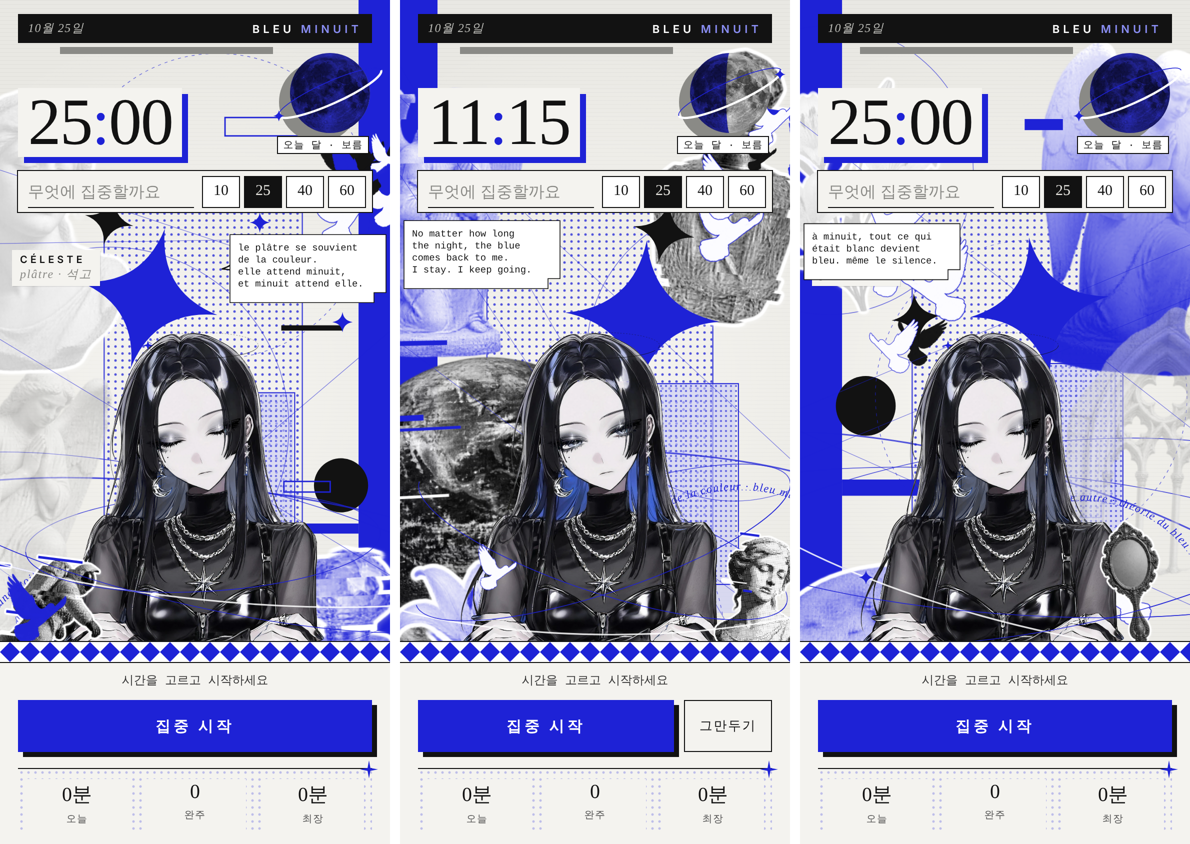
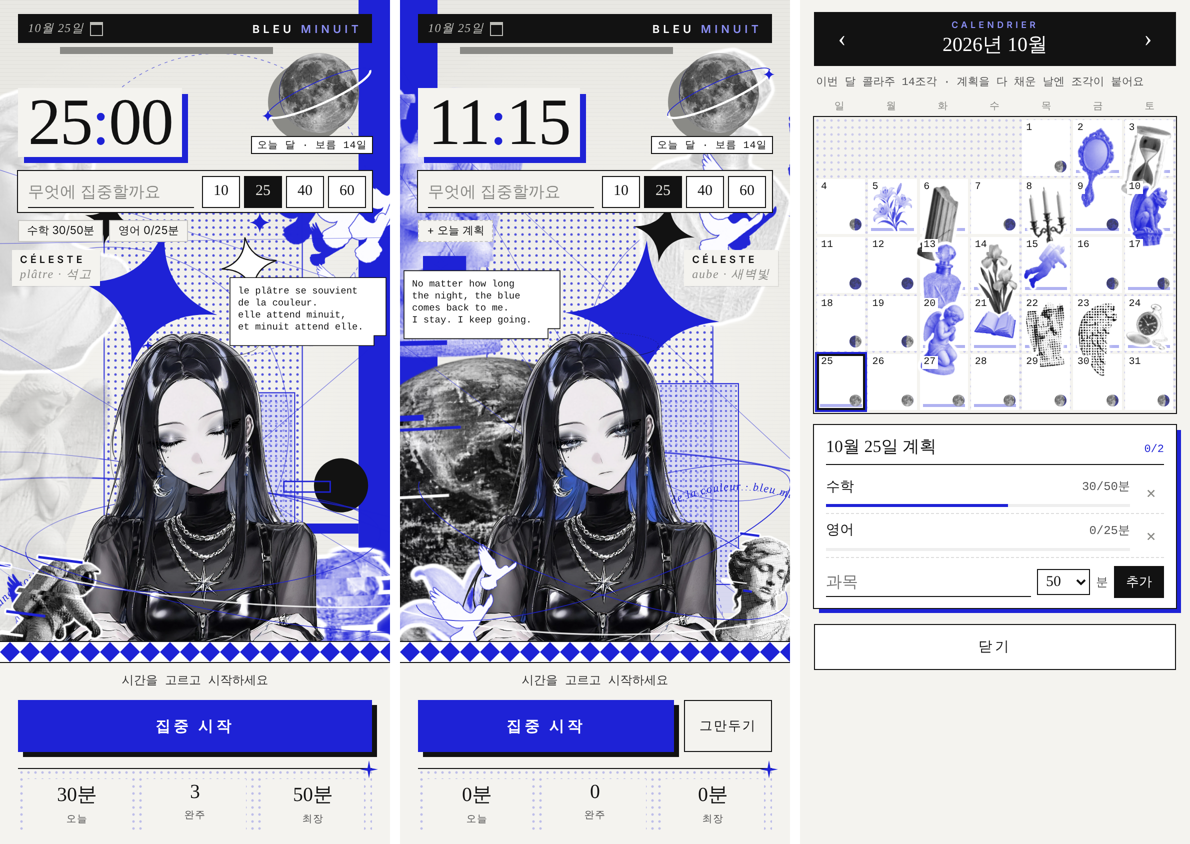
앱 시안: 실제 달 위상, 달 뒤 콜라주 비우기, 달력+공부 계획(다 채운 날에 콜라주 조각)
Claude-Session: https://claude.ai/code/session_015z2jERGhkXRnxmKCmzk3Uw

diff --git a/work/celeste/app/index.html b/work/celeste/app/index.html
@@ -97,12 +97,53 @@
     #bottom{grid-column:1;grid-row:2;margin:0 0 10px 12px;padding-top:28px;align-self:end;border:1px solid var(--ink)}
     #recent{display:none}
   }
+  /* ── 달력 ── */
+  #date{font:italic 12px var(--serif);color:#bdbdb8;letter-spacing:.06em;display:flex;align-items:center;gap:6px}
+  #date::after{content:"";width:11px;height:10px;border:1px solid #bdbdb8;border-top-width:3px}
+  #cal{position:fixed;inset:0;z-index:30;background:var(--paper2);overflow-y:auto;-webkit-overflow-scrolling:touch;
+    padding:calc(12px + env(safe-area-inset-top)) 14px calc(16px + env(safe-area-inset-bottom))}
+  #cal[hidden]{display:none}
+  #cal .ch{display:flex;align-items:center;justify-content:space-between;background:var(--ink);color:#fff;padding:8px 10px}
+  #cal .ch div{text-align:center} #cal .ch small{display:block;font:600 9px var(--sans);letter-spacing:.34em;color:#8b8ff5}
+  #cal .ch b{font:400 20px var(--serif)} #cal .ch button{font:24px var(--serif);color:#fff;width:36px}
+  #calNote{font:11px 'American Typewriter','Courier New',monospace;color:#555;margin:8px 2px 6px}
+  #cal .cw,#calGrid{display:grid;grid-template-columns:repeat(7,1fr)}
+  #cal .cw span{font:10px var(--sans);color:var(--grey);text-align:center;padding:4px 0;letter-spacing:.1em}
+  #calGrid{gap:3px;background:radial-gradient(circle,#1E22D630 1.1px,transparent 1.4px) 0 0/7px 7px;padding:3px;outline:1px solid var(--ink)}
+  #calGrid .d{position:relative;aspect-ratio:1/1.15;background:#fff;overflow:visible;font:10px 'American Typewriter','Courier New',monospace}
+  #calGrid .d.out{visibility:hidden}
+  #calGrid .d i{position:absolute;left:2px;top:2px;font-style:normal;z-index:5;background:#fff;padding:0 2px;line-height:1.3}
+  #calGrid .d .m{position:absolute;right:3px;bottom:3px;width:13px;height:13px;opacity:.8}
+  #calGrid .d .st{position:absolute;inset:4% 0 -2%;display:grid;place-items:center;z-index:1;pointer-events:none}
+  #calGrid .d .st canvas{max-width:100%;max-height:100%}
+  #calGrid .d.has::before{content:"";position:absolute;left:3px;right:3px;bottom:3px;height:3px;background:var(--bleu);opacity:.35}
+  #calGrid .d.today{outline:2px solid var(--ink);outline-offset:-2px}
+  #calGrid .d.sel{box-shadow:0 0 0 2px var(--bleu);z-index:3}
+  #plan{margin-top:12px;background:#fff;outline:1px solid var(--ink);padding:10px 12px;box-shadow:5px 5px 0 var(--bleu)}
+  #plan .ph{display:flex;justify-content:space-between;align-items:baseline;border-bottom:1px solid var(--ink);padding-bottom:6px;margin-bottom:6px}
+  #plan .ph b{font:400 17px var(--serif)} #planState{font:11px 'American Typewriter','Courier New',monospace;color:var(--bleu)}
+  #planList .it{display:grid;grid-template-columns:1fr auto 26px;align-items:center;gap:8px;padding:6px 0;border-bottom:1px dashed #0002}
+  #planList .it span{font-size:14px} #planList .it em{font:12px 'American Typewriter','Courier New',monospace;font-style:normal;color:#555}
+  #planList .it.ok em{color:var(--bleu)} #planList .it.ok span::after{content:" ✦";color:var(--bleu)}
+  #planList .it u{grid-column:1/3;height:3px;background:#0001;position:relative;text-decoration:none}
+  #planList .it u::after{content:"";position:absolute;left:0;top:0;bottom:0;width:var(--w);background:var(--bleu)}
+  #planList .it button{grid-row:1/3;grid-column:3;font-size:16px;color:var(--grey)}
+  #planList .none{font:12px 'American Typewriter','Courier New',monospace;color:var(--grey);padding:6px 0}
+  #planAdd{display:flex;gap:6px;align-items:center;margin-top:8px}
+  #planAdd input{flex:1;min-width:0;border:0;border-bottom:1px solid var(--ink);font:16px var(--sans);padding:5px 0;background:none;border-radius:0;outline:none;-webkit-user-select:text;user-select:text}
+  #planAdd select{font:15px var(--serif);border:1px solid var(--ink);background:#fff;padding:3px 4px;border-radius:0;color:var(--ink)}
+  #planAdd span{font-size:12px;color:#555}
+  #planAdd button{background:var(--ink);color:#fff;padding:7px 12px;font-size:13px}
+  #plan.past #planAdd,#plan.past .it button{display:none}
+  #calClose{display:block;width:100%;margin-top:16px;height:46px;border:1px solid var(--ink);background:#fff;letter-spacing:.2em}
+  #recent button.ok{color:var(--bleu);border-color:var(--bleu)}
+  #recent button.add{border-style:dashed}
   #loading{position:absolute;inset:0;display:grid;place-items:center;font:italic 13px var(--serif);color:var(--grey);z-index:1}
 </style></head><body>
 <div id="app">
   <svg id="bg1" class="layer"></svg><div id="bgo" class="layer"></div><svg id="bg2" class="layer"></svg>
   <header id="top">
-    <div id="brand"><span id="date"></span><b>BLEU <i>MINUIT</i></b></div>
+    <div id="brand"><button id="date" type="button"></button><b>BLEU <i>MINUIT</i></b></div>
     <div id="time">25<span>:</span>00</div>
     <div id="moonBox"><canvas id="moon"></canvas><div id="moonTxt"></div></div>
     <div id="row">
@@ -135,6 +176,22 @@
   </footer>
 </div>
 <div id="toast"></div>
+<section id="cal" hidden>
+  <div class="ch"><button id="calPrev" type="button">‹</button><div><small>CALENDRIER</small><b id="calTitle"></b></div><button id="calNext" type="button">›</button></div>
+  <div id="calNote">계획을 다 채운 날엔 콜라주 조각이 붙어요</div>
+  <div class="cw"><span>일</span><span>월</span><span>화</span><span>수</span><span>목</span><span>금</span><span>토</span></div>
+  <div id="calGrid"></div>
+  <div id="plan">
+    <div class="ph"><b id="planTitle"></b><span id="planState"></span></div>
+    <div id="planList"></div>
+    <form id="planAdd" autocomplete="off">
+      <input id="planSubj" placeholder="과목" maxlength="20" enterkeyhint="done">
+      <select id="planMin"><option>25</option><option selected>50</option><option>75</option><option>100</option><option>150</option></select><span>분</span>
+      <button type="submit">추가</button>
+    </form>
+  </div>
+  <button id="calClose" type="button">닫기</button>
+</section>
 
 <script src="../rig/rig.js"></script>
 <script>
@@ -164,30 +221,38 @@ function moonPath(lit, r = 40){
   return `M0 ${-r} A${r} ${r} 0 0 1 0 ${r} A${rx} ${r} 0 0 ${sweep} 0 ${-r}Z`;
 }
 /* 콜라주 달 (레퍼런스처럼): 흑백 달 사진 + 뒤로 비켜 놓은 회색 원.
-   그림자 쪽은 클랭 블루를 곱하기로 얹어 사진 결이 비친다. 흰 궤도 위 작은 별이 진행도만큼 돈다 */
+   모양은 오늘 실제 달의 위상. 그림자 쪽은 클랭 블루를 곱하기로 얹어 사진 결이 비친다.
+   집중 진행도는 흰 궤도 위 별이 돈다 */
 let moonImg = null, moonLast = '';
-loadImg(PARTS + 'obj_moon.webp').then(i=>{ moonImg = i; moonLast = ''; paint(); });
+loadImg(PARTS + 'obj_moon.webp').then(i=>{ moonImg = i; moonLast = ''; paint(); paintCal(); });
+// 달 원판 하나 그리기 (g 원점 = 달 중심). age = 달 나이(일)
+function moonDisc(g, r, age){
+  const f = age/29.530588853, lit = (1 - Math.cos(2*Math.PI*f))/2;
+  g.save(); g.beginPath(); g.arc(0, 0, r, 0, Math.PI*2); g.clip();
+  if(moonImg){ g.filter = 'grayscale(1) contrast(1.15)'; g.drawImage(moonImg, -r - 1, -r - 1, 2*r + 2, 2*r + 2); g.filter = 'none'; }
+  else { g.fillStyle = '#bbb'; g.fillRect(-r, -r, 2*r, 2*r); }
+  if(lit < .995){
+    if(f >= .5) g.scale(-1, 1);                                      // 기우는 달: 밝은 쪽이 왼쪽
+    const rx = Math.abs(1 - 2*lit)*r;
+    g.beginPath(); g.arc(0, 0, r + 1, Math.PI/2, Math.PI*1.5);                               // 왼쪽 반원(어두운 쪽 바깥)
+    if(lit < .5) g.ellipse(0, 0, Math.max(rx, .01), r + 1, 0, -Math.PI/2, Math.PI/2, false); // 경계가 오른쪽으로 부풂
+    else g.ellipse(0, 0, Math.max(rx, .01), r + 1, 0, -Math.PI/2, -Math.PI*1.5, true);      // 경계가 왼쪽으로 들어감
+    g.closePath();
+    g.globalCompositeOperation = 'multiply'; g.fillStyle = B; g.globalAlpha = .92; g.fill();
+    g.globalCompositeOperation = 'source-over'; g.globalAlpha = 1;
+  }
+  g.restore();
+}
 function paintMoon(p){
-  const cv = $('moon'), dpr = Math.min(3, devicePixelRatio || 1), S = 124, key = (p*500|0) + '/' + !!moonImg;
+  const age = moonAge(), cv = $('moon'), dpr = Math.min(3, devicePixelRatio || 1), S = 124;
+  const key = (p*500|0) + '/' + !!moonImg + '/' + (age*20|0);
   if(key === moonLast) return; moonLast = key;
   if(cv.width !== S*dpr){ cv.width = cv.height = S*dpr; }
   const g = cv.getContext('2d'); g.setTransform(dpr, 0, 0, dpr, 0, 0); g.clearRect(0, 0, S, S);
   const c = S/2, r = 40;
   g.save(); g.translate(c + 4, c - 2);
   g.fillStyle = '#8a8a86'; g.beginPath(); g.arc(-11, 9, r, 0, Math.PI*2); g.fill();          // 비켜 놓은 회색 원
-  g.save(); g.beginPath(); g.arc(0, 0, r, 0, Math.PI*2); g.clip();
-  if(moonImg){ g.filter = 'grayscale(1) contrast(1.15)'; g.drawImage(moonImg, -r - 1, -r - 1, 2*r + 2, 2*r + 2); g.filter = 'none'; }
-  else { g.fillStyle = '#bbb'; g.fillRect(-r, -r, 2*r, 2*r); }
-  if(p < 1){                                                                                // 그림자 쪽: 사진 위에 블루 곱하기
-    const rx = Math.abs(1 - 2*p)*r;
-    g.beginPath(); g.arc(0, 0, r + 1, Math.PI/2, Math.PI*1.5);                               // 왼쪽 반원(어두운 쪽 바깥)
-    if(p < .5) g.ellipse(0, 0, Math.max(rx, .01), r + 1, 0, -Math.PI/2, Math.PI/2, false);   // 경계가 오른쪽으로 부풂
-    else g.ellipse(0, 0, Math.max(rx, .01), r + 1, 0, -Math.PI/2, -Math.PI*1.5, true);       // 경계가 왼쪽으로 들어감
-    g.closePath();
-    g.globalCompositeOperation = 'multiply'; g.fillStyle = B; g.globalAlpha = .92; g.fill();
-    g.globalCompositeOperation = 'source-over'; g.globalAlpha = 1;
-  }
-  g.restore();
+  moonDisc(g, r, age);
   // 흰 궤도(앞쪽 반만 달 위로) + 진행도 별
   g.rotate(-.42); const orx = r + 16, ory = 11;
   g.strokeStyle = '#fff'; g.lineWidth = 2.2; g.beginPath(); g.ellipse(0, 0, orx, ory, 0, 0, Math.PI); g.stroke();
@@ -217,9 +282,9 @@ const IMG = {}, TC = {};
 const getImg = n => IMG[n] || (IMG[n] = loadImg(PARTS + 'obj_' + n + '.webp'));
 function canvasOf(w, h){ const c = document.createElement('canvas'); c.width = w; c.height = h; return c; }
 // 그림 처리: 흑백/블루/블루 그라데이션/망점/반전/잔상 (+글리치, +흰 스티커 테두리)
-function treat(img, kind, glitch, sticker, seed){
-  const key = [img.src, kind, glitch, sticker, seed].join('|'); if(TC[key]) return TC[key];
-  const s = Math.min(1, 460 / Math.max(img.width, img.height));
+function treat(img, kind, glitch, sticker, seed, max = 460){
+  const key = [img.src, kind, glitch, sticker, seed, max].join('|'); if(TC[key]) return TC[key];
+  const s = Math.min(1, max / Math.max(img.width, img.height));
   const w = Math.round(img.width*s), h = Math.round(img.height*s);
   let c = canvasOf(w, h), g = c.getContext('2d'); g.drawImage(img, 0, 0, w, h);
   const d = g.getImageData(0, 0, w, h), px = d.data;
@@ -283,6 +348,10 @@ async function buildCollage(){
   const fx = X => FIG.x - OX + X*FIG.sc, fy = Y => FIG.y + Y*FIG.sc;
   const face = {x:fx(650), y:fy(800), r:300*FIG.sc}, chest = {x:fx(650), y:fy(1350)};
   const nearFace = (x, y, m = 0) => Math.hypot(x - face.x, y - face.y) < face.r + m;
+  // 달 자리(앱 좌표 → 콜라주 좌표). 여기 겹치는 것은 옅게 하거나 빼서 달이 묻히지 않게
+  const mb = $('moon').getBoundingClientRect(), ab = A.getBoundingClientRect();
+  const moon = {x:mb.left - ab.left - OX + 12, y:mb.top - ab.top + 8, w:mb.width - 20, h:mb.height - 16};
+  const hitsMoon = (x, y, w, h) => x < moon.x + moon.w && x + w > moon.x && y < moon.y + moon.h && y + h > moon.y;
   const side = R() < .5 ? 'L' : 'R', sx = v => side === 'L' ? v : W - v;      // 파란 띠 쪽 기준 좌우
   let b1 = '', b2 = '', f1 = '';
   const defs = `<defs>
@@ -318,6 +387,7 @@ async function buildCollage(){
   // 6) 작은 파란/검은 막대
   for(let i = 0; i < 6; i++){ const x = W*rr(.05, .85), y = H*rr(.12, .9), w = W*rr(.06, .26), h = rr(7, 22);
     if(nearFace(x + w/2, y, 20)) continue;
+    if(hitsMoon(x, y, w, h)) continue;
     const t = i % 3;
     const el = t === 0 ? `<rect x="${x}" y="${y}" width="${w}" height="${h}" fill="${B}"/>` : t === 1 ? `<rect x="${x}" y="${y}" width="${w}" height="${h}" fill="none" stroke="${B}" stroke-width="1.4"/>` : `<rect x="${x}" y="${y}" width="${w*.7}" height="${h*.7}" fill="${K}"/>`;
     if(i < 5) b2 += el; else if(!nearFace(x, y, 60)) f1 += el; }
@@ -328,7 +398,8 @@ async function buildCollage(){
   for(let i = 0; i < 4; i++){ const x = W*rr(.05, .95), y = H*rr(.2, .9); const s = star(x, y, rr(5, 11), B);
     if(i < 3) b2 += s; else if(!nearFace(x, y, 30)) f1 += s; }
   // 8) 타자기 글귀 상자 + 곡선 글귀
-  { const L = pick(LINES), w = Math.min(170, W*.4), x = side === 'L' ? 4 : W - w - 4, y = H*rr(.24, .3), lh = 12;
+  Object.assign($('stageLbl').style, side === 'L' ? {left:'auto', right:'12px'} : {left:'12px', right:'auto'});   // 이름표는 글귀 반대쪽
+  { const L = pick(LINES), w = Math.min(170, W*.4), x = side === 'L' ? 4 : W - w - 4, y = H*rr(.31, .34), lh = 12;
     f1 += `<path d="M${x} ${y}H${x+w}V${y+L.length*lh+10}H${x+w-12}V${y+L.length*lh+20}H${x}Z" fill="#fff" stroke="${K}" stroke-width=".8"/>`;
     f1 += `<text x="${x+8}" y="${y+16}" font-family="'American Typewriter','Courier New',monospace" font-size="9.5" fill="${K}">` +
       L.map((l, i)=>`<tspan x="${x+8}" dy="${i ? lh : 0}">${l.replace(/&/g,'&amp;').replace(/</g,'&lt;')}</tspan>`).join('') + '</text>'; }
@@ -340,7 +411,9 @@ async function buildCollage(){
   const [doveImg, ...imgs] = await Promise.all([getImg('dove'), ...objs.map(o=>getImg(o.n))]);
   if(my !== collageBusy) return;
   const bo = document.createDocumentFragment(), fo = document.createDocumentFragment();
-  objs.forEach((o, i)=>{ const c = treat(imgs[i], o.kind, o.glitch, o.sticker, dayKey() + i);
+  objs.forEach((o, i)=>{
+    if(!o.front && hitsMoon(o.x*W, o.y*H, H*o.h*imgs[i].width/imgs[i].height, H*o.h)){ o.kind = 'ghost'; o.glitch = false; }   // 달 뒤: 옅은 잔상으로
+    const c = treat(imgs[i], o.kind, o.glitch, o.sticker, dayKey() + i);
     const h = H*o.h, w = h * c.width/c.height, el = document.createElement('div'); el.className = 'o';
     Object.assign(el.style, {left:(OX + o.x*W) + 'px', top:(o.y*H) + 'px', width:w + 'px', transform:`rotate(${o.rot}deg)`});
     el.appendChild(cloneCanvas(c)); (o.front ? fo : bo).appendChild(el); });
@@ -348,7 +421,7 @@ async function buildCollage(){
   const n = 7 + Math.floor(R()*4), dir = R() < .5 ? 1 : -1;
   for(let i = 0, t = 0; i < n && t < 60; t++){
     const u = R(), x = W*(dir > 0 ? u : 1 - u) + rr(-40, 40), y = H*(.85 - u*.7) + rr(-60, 60), s = W*rr(.08, .2);
-    if(nearFace(x, y, s*.6)) continue;
+    if(nearFace(x, y, s*.6) || hitsMoon(x - s/2, y - s/2, s, s)) continue;
     const kind = pick(['w','w','w','b','b','k']), c = cloneCanvas(dove(doveImg, kind)), el = document.createElement('div'); el.className = 'o';
     Object.assign(el.style, {left:(OX + x - s/2) + 'px', top:(y - s/2) + 'px', width:s + 'px', transform:`scaleX(${dir}) rotate(${rr(-25, 15)}deg)`});
     el.appendChild(c); (i < n - 2 ? bo : fo).appendChild(el); i++; }
@@ -384,14 +457,95 @@ let cur = null;
 const subjOf = () => ($('subject').value.trim() || '자유 집중');
 function commit(done){ if(!cur) return;
   if(done || cur.sec >= 60){ rec.sessions.unshift({s:cur.s, t:cur.t, sec:cur.sec, mins:cur.mins, done:!!done}); rec.sessions = rec.sessions.slice(0, 200); }
-  cur = null; saveRec(); paintStats(); }
+  cur = null; saveRec(); paintStats(); checkStamp(keyOf()); }
 const esc = t => t.replace(/[&<>"]/g, c=>({'&':'&amp;','<':'&lt;','>':'&gt;','"':'&quot;'}[c]));
 const fmtMin = sec => { const m = Math.round(sec/60); return m >= 60 ? Math.floor(m/60)+'시간 '+(m%60)+'분' : m+'분'; };
 function paintStats(){
   $('sTime').textContent = fmtMin(rec.todaySec); $('sCnt').textContent = rec.done; $('sBest').textContent = rec.best + '분';
-  const recent = [...new Set(rec.sessions.map(x=>x.s))].filter(x=>x !== '자유 집중').slice(0, 4);
-  $('recent').innerHTML = recent.map(x=>'<button type="button">'+esc(x)+'</button>').join('');
+  const plan = plans[keyOf()] || [];
+  if(plan.length){
+    const by = focusedOn(keyOf());
+    $('recent').innerHTML = plan.map(it=>{ const got = Math.floor((by[it.s] || 0)/60), ok = got >= it.m;
+      return '<button type="button" data-s="'+esc(it.s)+'" class="'+(ok ? 'ok' : '')+'">'+esc(it.s)+' '+Math.min(got, it.m)+'/'+it.m+'분'+(ok ? ' ✦' : '')+'</button>'; }).join('');
+  } else {
+    const recent = [...new Set(rec.sessions.map(x=>x.s))].filter(x=>x !== '자유 집중').slice(0, 3);
+    $('recent').innerHTML = '<button type="button" class="add" data-cal="1">+ 오늘 계획</button>' + recent.map(x=>'<button type="button" data-s="'+esc(x)+'">'+esc(x)+'</button>').join('');
+  }
 }
+
+/* ═══ 달력 + 공부 계획 ═══
+   bleu.plan = {'2026-10-25':[{s:'수학', m:50}, ...]}  · 그날 그 과목을 m분 이상 집중하면 그 항목 달성
+   계획을 다 채우면 bleu.cal 에 그날의 콜라주 조각(오브젝트·처리·각도)을 붙인다. 한 번 붙은 조각은 그대로 */
+const keyOf = (d = new Date()) => d.getFullYear() + '-' + (d.getMonth()+1) + '-' + d.getDate();
+const dateOf = k => { const [y, m, d] = k.split('-').map(Number); return new Date(y, m - 1, d); };
+let plans = {}, stamps = {};
+try{ plans = JSON.parse(localStorage.getItem('bleu.plan') || '{}') || {}; }catch(e){}
+try{ stamps = JSON.parse(localStorage.getItem('bleu.cal') || '{}') || {}; }catch(e){}
+const savePlans = () => { try{ localStorage.setItem('bleu.plan', JSON.stringify(plans)); }catch(e){} };
+const saveStamps = () => { try{ localStorage.setItem('bleu.cal', JSON.stringify(stamps)); }catch(e){} };
+function focusedOn(k){                                         // 그날 과목별 집중 초
+  const t0 = +dateOf(k), t1 = t0 + 864e5, by = {};
+  rec.sessions.filter(x=>x.t >= t0 && x.t < t1).forEach(x=>{ by[x.s] = (by[x.s] || 0) + x.sec; });
+  if(cur && k === keyOf()) by[cur.s] = (by[cur.s] || 0) + cur.sec;
+  return by;
+}
+const dayDone = k => { const p = plans[k]; if(!p || !p.length) return false; const by = focusedOn(k); return p.every(it=>(by[it.s] || 0) >= it.m*60); };
+function checkStamp(k){
+  if(stamps[k] || !dayDone(k)) return;
+  const r = rngOf('cal/' + k), pool = OBJS.filter(n=>n !== 'dove');
+  stamps[k] = {n:pool[Math.floor(r()*pool.length)], k:['plain','bleu','gradient','halftone','negative','bleu'][Math.floor(r()*6)], r:Math.round((r() - .5)*24)};
+  saveStamps(); tone([659.25, 783.99, 1046.5, 1318.5], 1.2, 'sine', .09);
+  toast('오늘의 콜라주 한 조각 ✦', 3000); paintStats(); if(!$('cal').hidden) paintCal();
+}
+let calMonth = new Date(), calSel = keyOf();
+calMonth.setDate(1);
+function openCal(k = keyOf()){ calSel = k; calMonth = dateOf(k); calMonth.setDate(1); $('cal').hidden = false;
+  Object.keys(plans).forEach(checkStamp); paintCal(); }
+function smallMoon(age){                                       // 칸 구석의 작은 실제 달
+  const c = canvasOf(26, 26), g = c.getContext('2d'); g.translate(13, 13); moonDisc(g, 12, age); return c; }
+function paintCal(){
+  if($('cal').hidden) return;
+  const y = calMonth.getFullYear(), m = calMonth.getMonth(), first = new Date(y, m, 1).getDay(), days = new Date(y, m + 1, 0).getDate();
+  $('calTitle').textContent = y + '년 ' + (m + 1) + '월';
+  const grid = $('calGrid'); grid.innerHTML = '';
+  const todayK = keyOf(), n = Math.ceil((first + days)/7)*7;
+  let filled = 0;
+  for(let i = 0; i < n; i++){
+    const d = i - first + 1, el = document.createElement('button'); el.type = 'button'; el.className = 'd';
+    if(d < 1 || d > days){ el.classList.add('out'); grid.appendChild(el); continue; }
+    const k = y + '-' + (m + 1) + '-' + d; el.dataset.k = k;
+    if(k === todayK) el.classList.add('today');
+    if(k === calSel) el.classList.add('sel');
+    if(plans[k] && plans[k].length) el.classList.add('has');
+    el.innerHTML = '<i>' + d + '</i>';
+    const st = stamps[k];
+    if(st){ filled++;
+      const box = document.createElement('div'); box.className = 'st'; box.style.transform = `rotate(${st.r}deg)`; el.appendChild(box);
+      getImg(st.n).then(img=>{ box.appendChild(cloneCanvas(treat(img, st.k, false, true, 'cal' + k, 140))); });
+    } else { const mc = smallMoon(moonAge(new Date(y, m, d, 21))); mc.className = 'm'; el.appendChild(mc); }
+    grid.appendChild(el);
+  }
+  $('calNote').textContent = filled ? '이번 달 콜라주 ' + filled + '조각 · 계획을 다 채운 날엔 조각이 붙어요' : '계획을 다 채운 날엔 콜라주 조각이 붙어요';
+  paintPlan();
+}
+function paintPlan(){
+  const k = calSel, d = dateOf(k), past = +d < +dateOf(keyOf()), list = plans[k] || [], by = focusedOn(k);
+  $('planTitle').textContent = (d.getMonth() + 1) + '월 ' + d.getDate() + '일 계획';
+  $('plan').classList.toggle('past', past);
+  $('planState').textContent = stamps[k] ? '완성 ✦' : list.length ? list.filter(it=>(by[it.s] || 0) >= it.m*60).length + '/' + list.length : '';
+  $('planList').innerHTML = list.length ? list.map((it, i)=>{ const got = Math.floor((by[it.s] || 0)/60), ok = got >= it.m;
+    return '<div class="it' + (ok ? ' ok' : '') + '"><span>' + esc(it.s) + '</span><em>' + Math.min(got, it.m) + '/' + it.m + '분</em><button type="button" data-i="' + i + '" aria-label="지우기">×</button><u style="--w:' + Math.min(100, got/it.m*100) + '%"></u></div>'; }).join('')
+    : '<div class="none">' + (past ? '계획이 없던 날이에요' : '과목과 시간을 적어 계획을 세워요') + '</div>';
+}
+$('date').onclick = ()=>openCal();
+$('calClose').onclick = ()=>{ $('cal').hidden = true; paintStats(); };
+$('calPrev').onclick = ()=>{ calMonth.setMonth(calMonth.getMonth() - 1); paintCal(); };
+$('calNext').onclick = ()=>{ calMonth.setMonth(calMonth.getMonth() + 1); paintCal(); };
+$('calGrid').onclick = e=>{ const b = e.target.closest('.d'); if(!b || !b.dataset.k) return; calSel = b.dataset.k; paintCal(); };
+$('planList').onclick = e=>{ const b = e.target.closest('button'); if(!b) return;
+  plans[calSel].splice(+b.dataset.i, 1); if(!plans[calSel].length) delete plans[calSel]; savePlans(); paintCal(); };
+$('planAdd').onsubmit = e=>{ e.preventDefault(); const s = $('planSubj').value.trim() || subjOf(), m = +$('planMin').value;
+  (plans[calSel] = plans[calSel] || []).push({s, m}); savePlans(); $('planSubj').value = ''; $('planSubj').blur(); paintCal(); checkStamp(calSel); };
 
 /* ═══ 소리: 완주 화음, 포기 종 (작게) ═══ */
 let AC = null;
@@ -426,6 +580,7 @@ function tickOnce(){
   const was = remain; remain = Math.max(0, Math.round((endAt - Date.now())/1000));
   const add = Math.max(0, was - remain); rec.todaySec += add; if(cur) cur.sec += add;
   if(rec.todaySec % 15 < add) saveRec();
+  if(cur && cur.sec % 30 < add) checkStamp(keyOf());
   paint(); paintStats(); if(remain <= 0) finish();
 }
 function start(){
@@ -468,7 +623,7 @@ $('presets').onclick = e=>{ const b = e.target.closest('button'); if(!b) return;
   if(mode === 'paused'){ commit(false); }
   if(mode !== 'idle'){ mode = 'idle'; $('go').textContent = '집중 시작'; setStatus('시간을 고르고 시작하세요'); if(rig) rig.expr = ''; }
   setMins(+b.dataset.m); };
-$('recent').onclick = e=>{ const b = e.target.closest('button'); if(!b || mode === 'run') return; $('subject').value = b.textContent; };
+$('recent').onclick = e=>{ const b = e.target.closest('button'); if(!b) return; if(b.dataset.cal){ openCal(); return; } if(mode === 'run') return; $('subject').value = b.dataset.s; };
 $('subject').addEventListener('keydown', e=>{ if(e.key === 'Enter'){ e.preventDefault(); $('subject').blur(); } });
 $('subject').addEventListener('blur', ()=>setTimeout(()=>{ window.scrollTo(0, 0); fit(); }, 60));
 try{ $('subject').value = localStorage.getItem('midnight.subj') || ''; }catch(e){}
@@ -479,7 +634,7 @@ document.addEventListener('visibilitychange', ()=>{ if(!document.hidden && mode 
 
 { const d = new Date(), age = moonAge(d);
   $('date').textContent = (d.getMonth()+1) + '월 ' + d.getDate() + '일';
-  $('moonTxt').textContent = '오늘 달 · ' + moonName(age); }
+  $('moonTxt').textContent = '오늘 달 · ' + moonName(age) + ' ' + Math.round(age) + '일'; }
 
 /* ═══ 무대 맞추기 ═══ */
 // 아이폰 홈 화면 앱은 innerHeight를 짧게 주는 경우가 있어 화면 높이를 쓴다
